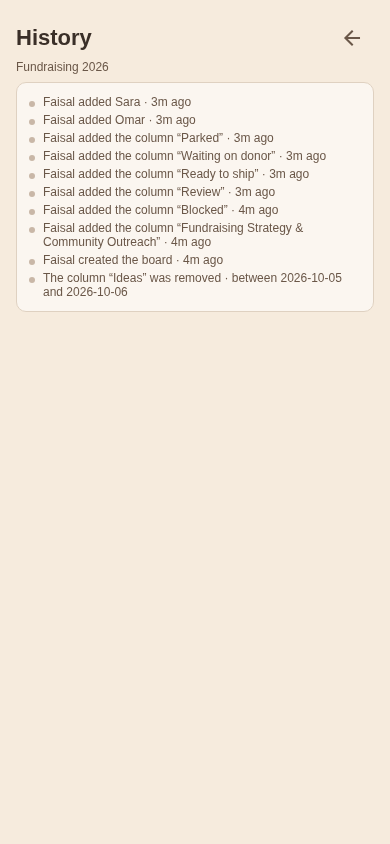
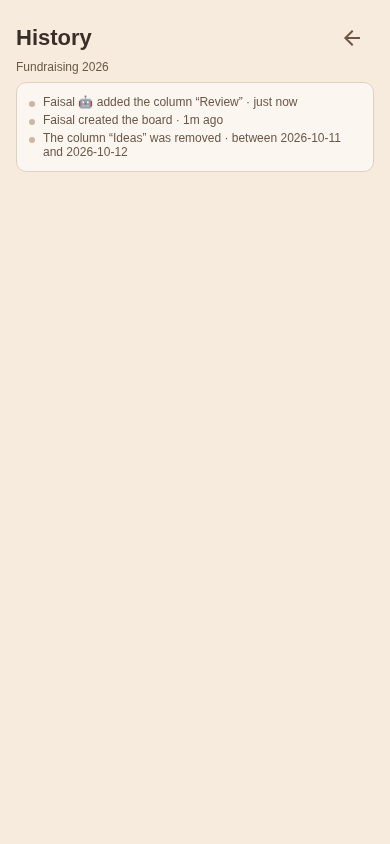
fix(history): keep the robot badge beside its author

diff --git a/app/src/components/ActivityActor.tsx b/app/src/components/ActivityActor.tsx
@@ -5,7 +5,7 @@ export function ActivityActor({ name, via }: { name: string; via?: 'agent' }) {
   return (
     <>
       {name}
-      {via === 'agent' ? <Text accessibilityLabel="Via AI agent">{' 🤖'}</Text> : null}
+      {via === 'agent' ? <Text accessibilityLabel="Via AI agent">{'\u00a0🤖'}</Text> : null}
     </>
   );
 }
